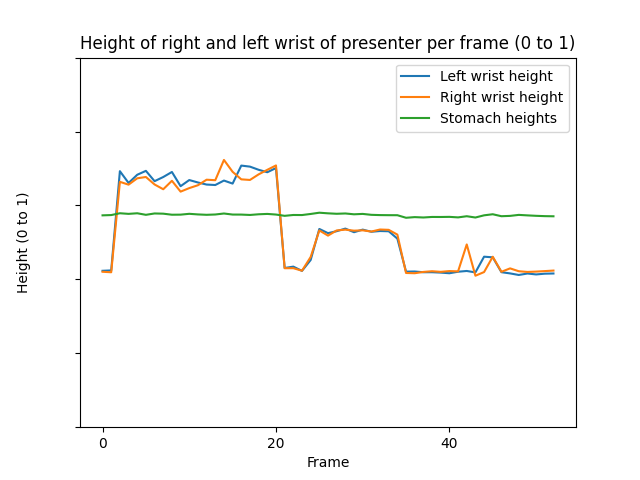
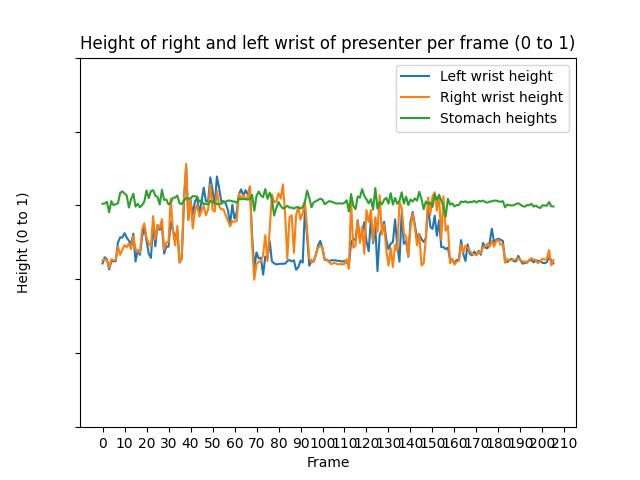
hand gesture sections
- determined that sections are the way to go

Changed region(s): [[0.1562, 0.3125, 0.875, 0.5938], [0.1875, 0.9062, 0.9062, 0.9375]]

diff --git a/Templates/upload.html b/Templates/upload.html
@@ -175,7 +175,7 @@
         <div class="loginWindow">
             <h2 style="color:black;">Submit your presentation</h2>
             <form method="post" enctype=multipart/form-data>
-            <label for="fileInput">Script file:</label><input type=file name="scriptFile" class="inputField" id="fileInput"><br>
+            <!--<label for="fileInput">Script file:</label><input type=file name="scriptFile" class="inputField" id="fileInput"><br>-->
             <label for="scriptFileInput">Presentation recording file:</label><input type=file name=file class="inputField" accept="video/*" id="scriptFileInput"><br>
             <input type="submit" value="Submit" id="submitFile" onclick="sayHi()">
             <input type="submit" value="Cancel" id="cancel">

diff --git a/mathyStuff.py b/mathyStuff.py
@@ -1,25 +1,106 @@
 import numpy as np
 import matplotlib.pyplot as plt
+from shapely.geometry import LineString
+import pandas as pd
 
-positions = [-0.5794419646263123, -0.5807831883430481, -0.3361303210258484, -0.34377115964889526, -0.32656973600387573, -0.32301369309425354, -0.34325772523880005, -0.35617777705192566, -0.3333170711994171, -0.3626295328140259, -0.3530879616737366, -0.34531113505363464, -0.33035558462142944, -0.3317309021949768, -0.27691954374313354, -0.3090311586856842, -0.3294033408164978, -0.3310296833515167, -0.315949022769928, -0.3036351799964905, -0.2918146848678589, -0.5698598027229309, -0.5697675943374634, -0.5766220092773438, -0.5394902229309082, -0.4675649404525757, -0.48163673281669617, -0.4676275849342346, -0.46552518010139465, -0.46826422214508057, -0.46733084321022034, -0.4706277549266815, -0.46514832973480225, -0.46602076292037964, -0.4789222776889801, -0.5827349424362183, -0.5833925008773804, -0.5799033045768738, -0.5779815912246704, -0.5796786546707153, -0.5776031017303467, -0.5783829689025879, -0.5055620670318604, -0.5901376605033875, -0.5802419781684875, -0.5387815237045288, -0.5795063376426697, -0.5702962875366211, -0.5780039429664612, -0.5799062848091125, -0.5789716243743896, -0.5776592493057251, -0.5762386918067932]
+def section_y(y_coord,sectionNo):
+    for n in range(sectionNo):
+        if n == 0:
+            if y_coord >= 0 and y_coord <= (720/sectionNo)*(n+1):
+                return 1
+        else:
+            if y_coord > (720/sectionNo)*n and y_coord <= (720/sectionNo)*(n+1):
+                return n+1
+
+#WIN_20250730_23_12_07_Pro
+#positionsRaw = [-0.5325853824615479, -0.5301042199134827, -0.5247068405151367, -0.5205500721931458, -0.5244581699371338, -0.40609338879585266, -0.5285013914108276, -0.3726186454296112, -0.5205764770507812, -0.26383814215660095, -0.27307769656181335, -0.2659529745578766, -0.487113356590271, -0.4983258545398712, -0.5466229319572449, -0.5200075507164001, -0.5250523090362549, -0.28351128101348877, -0.1844327300786972, -0.21245239675045013, -0.3286295533180237, -0.4397791624069214, -0.4914955496788025, -0.5162328481674194, -0.5215202569961548, -0.5135793685913086, -0.523714005947113, -0.5248959064483643, -0.5273776054382324, -0.5142015814781189, -0.5054910778999329]
+
+positionsRaw = [-0.5487394332885742, -0.5456001162528992, -0.5480575561523438, -0.5685305595397949, -0.5454643964767456, -0.5481901168823242, -0.5483039617538452, -0.5104462504386902, -0.5337873697280884, -0.5196753740310669, -0.5073473453521729, -0.5130718350410461, -0.5025277137756348, -0.5184731483459473, -0.48305463790893555, -0.5189809203147888, -0.5242972373962402, -0.5273551344871521, -0.46455875039100647, -0.44850823283195496, -0.4868045747280121, -0.5032780170440674, -0.5108714699745178, -0.4288733899593353, -0.4919275939464569, -0.45334142446517944, -0.46164244413375854, -0.43710169196128845, -0.5200451016426086, -0.5001036524772644, -0.4986776113510132, -0.3812040686607361, -0.46808484196662903, -0.5081568360328674, -0.4558117389678955, -0.5544812679290771, -0.5446252822875977, -0.37596291303634644, -0.2875831723213196, -0.4391776919364929, -0.3801746666431427, -0.4622561037540436, -0.41480517387390137, -0.39815378189086914, -0.4299168884754181, -0.41444939374923706, -0.40169447660446167, -0.4267593324184418, -0.4108484387397766, -0.3431186378002167, -0.4120084047317505, -0.41699278354644775, -0.3599002957344055, -0.402701199054718, -0.4104255735874176, -0.4102693200111389, -0.42681777477264404, -0.4409027099609375, -0.4562623202800751, -0.4425475597381592, -0.4442615211009979, -0.44183802604675293, -0.3677114248275757, -0.38218358159065247, -0.3722921907901764, -0.3796590566635132, -0.3823210895061493, -0.34804943203926086, -0.5057900547981262, -0.6008517742156982, -0.5588468909263611, -0.551742434501648, -0.5509993433952332, -0.5340068340301514, -0.48054322600364685, -0.5505767464637756, -0.46372872591018677, -0.3699273467063904, -0.39193302392959595, -0.38868391513824463, -0.3671024739742279, -0.3816691040992737, -0.3432287573814392, -0.4224630892276764, -0.5449060797691345, -0.4312500059604645, -0.4265431761741638, -0.5283615589141846, -0.42606276273727417, -0.403642475605011, -0.43859413266181946, -0.4200725555419922, -0.3889784812927246, -0.46474534273147583, -0.5431596040725708, -0.5545910596847534, -0.5493809580802917, -0.532088041305542, -0.5135778188705444, -0.5098484754562378, -0.5132182836532593, -0.5461300611495972, -0.5478014349937439, -0.5533897280693054, -0.5589211583137512, -0.5558322668075562, -0.5564947724342346, -0.5594906210899353, -0.5581611394882202, -0.5596962571144104, -0.5576977133750916, -0.5454510450363159, -0.5712703466415405, -0.38966619968414307, -0.5144249796867371, -0.5096797347068787, -0.4418351948261261, -0.5013300776481628, -0.45732930302619934, -0.5311780571937561, -0.4124690592288971, -0.4448331296443939, -0.4123997092247009, -0.496725857257843, -0.4323216676712036, -0.4714202582836151, -0.37223386764526367, -0.4784618318080902, -0.45170271396636963, -0.5216473340988159, -0.5625842213630676, -0.5152930617332458, -0.5665940642356873, -0.505734920501709, -0.5242438912391663, -0.39060288667678833, -0.40662696957588196, -0.47505712509155273, -0.4843079745769501, -0.5363353490829468, -0.4594810903072357, -0.4221419394016266, -0.45898640155792236, -0.5079809427261353, -0.4770529568195343, -0.5620664954185486, -0.556859016418457, -0.4858088493347168, -0.3788103461265564, -0.4251663088798523, -0.3760714530944824, -0.3643641173839569, -0.4139161705970764, -0.3706666827201843, -0.4921014904975891, -0.37521129846572876, -0.46824246644973755, -0.45536404848098755, -0.5563980340957642, -0.5444576740264893, -0.5600857138633728, -0.5518373847007751, -0.5496876835823059, -0.5061298608779907, -0.5275072455406189, -0.5087194442749023, -0.5138834714889526, -0.5235146284103394, -0.5304703712463379, -0.5325214862823486, -0.5346775650978088, -0.525321364402771, -0.529176652431488, -0.5124203562736511, -0.5110419988632202, -0.5031708478927612, -0.5118680000305176, -0.49583134055137634, -0.511654794216156, -0.4957394003868103, -0.4929341673851013, -0.5064615607261658, -0.505266547203064, -0.5550753474235535, -0.5451611280441284, -0.5487560033798218, -0.5470869541168213, -0.547314465045929, -0.5453840494155884, -0.5429956912994385, -0.5477694272994995, -0.551960289478302, -0.5512006878852844, -0.5562561750411987, -0.5467765927314758, -0.5428956151008606, -0.5462566614151001, -0.5489434003829956, -0.5561537146568298, -0.5512233972549438, -0.5439226031303406, -0.5464651584625244, -0.5450199842453003, -0.5211634635925293, -0.5620511174201965, -0.547993004322052]
+
+#WIN_20250807_19_07_53_Pro
+#positionsRaw = [-0.6194545030593872, -0.6261144876480103, -0.6144956946372986, -0.6064348816871643, -0.5975335240364075, -0.6059531569480896, -0.6114587783813477, -0.6107118725776672, -0.6071372628211975, -0.6085165739059448, -0.6094580292701721, -0.6111363172531128, -0.6143379807472229, -0.6106725335121155, -0.6004202961921692, -0.5972669124603271, -0.6039623618125916, -0.6017809510231018, -0.6057973504066467, -0.6050704717636108, -0.6037896275520325, -0.5991820096969604, -0.6046565771102905, -0.6007012724876404, -0.6050994992256165, -0.6041679978370667, -0.6034728288650513, -0.6039924025535583, -0.6025302410125732, -0.6009629964828491, -0.596050500869751, -0.598336935043335, -0.5958999395370483, -0.6004021167755127, -0.6030275821685791, -0.6033242344856262, -0.5992010235786438, -0.6027380228042603, -0.6042390465736389, -0.5996551513671875, -0.6001970767974854, -0.6016270518302917, -0.6062532067298889, -0.6110777258872986, -0.6191348433494568]
+
+#WIN_20250730_13_18_25_Pro
+#positionsRaw = [-0.5769371390342712, -0.5740746855735779, -0.5770898461341858, -0.4597893953323364, -0.3182271420955658, -0.3103104829788208, -0.32622867822647095, -0.3242488503456116, -0.31667956709861755, -0.3476053774356842, -0.31001460552215576, -0.3363347351551056, -0.33099883794784546, -0.3194558322429657, -0.355131059885025, -0.36161133646965027, -0.32475364208221436, -0.3281310200691223, -0.3596455752849579, -0.31931939721107483, -0.3468552827835083, -0.34195294976234436, -0.3420727252960205, -0.3433576226234436, -0.3209373950958252, -0.31046122312545776, -0.3129536807537079, -0.3423405885696411, -0.26208269596099854, -0.283790647983551, -0.30067604780197144, -0.314946711063385, -0.32050061225891113, -0.3248846232891083, -0.32607752084732056, -0.3185686767101288, -0.313082218170166, -0.29819127917289734, -0.3124721646308899, -0.2901393175125122, -0.2827919125556946, -0.3584807515144348, -0.5600556135177612, -0.5775519609451294, -0.559845507144928, -0.5619506239891052, -0.5638207793235779, -0.562956690788269, -0.5465201735496521, -0.46155616641044617, -0.46768853068351746, -0.4707203805446625, -0.4835139513015747, -0.49003973603248596, -0.4666587710380554, -0.46244728565216064, -0.4651973843574524, -0.46304750442504883, -0.4646764397621155, -0.4631357789039612, -0.46610090136528015, -0.4652743339538574, -0.4655599892139435, -0.4645654559135437, -0.4643259346485138, -0.4652031362056732, -0.46381792426109314, -0.4677707552909851, -0.4817902445793152, -0.5538103580474854, -0.5733431577682495, -0.5736222863197327, -0.5762903094291687, -0.5738833546638489, -0.5732836127281189, -0.5746466517448425, -0.5737695693969727, -0.5734359622001648, -0.5727670192718506, -0.5753656625747681, -0.5746026635169983, -0.5686521530151367, -0.5693199634552002, -0.5459888577461243, -0.5008711218833923, -0.5323912501335144, -0.5874128341674805, -0.5724669694900513, -0.5735823512077332, -0.5695264339447021, -0.5409075617790222, -0.5539050698280334, -0.5733664631843567, -0.5331226587295532, -0.5600557327270508, -0.5625374913215637, -0.5629031658172607, -0.5614351630210876, -0.5606737732887268, -0.5653530359268188, -0.5638149976730347, -0.5636937022209167, -0.5676081776618958, -0.5682761669158936, -0.5663168430328369]
+
+pandasPositions = pd.Series(positionsRaw)
+
+#pandasPositions = pandasPositions.rolling(window=5).mean()
+
+positions = pandasPositions.tolist()
+
+positions[0],positions[1],positions[2],positions[3],positions[4],positions[5],positions[6],positions[7],positions[8] = positionsRaw[0],positionsRaw[1],positionsRaw[2],positionsRaw[3],positionsRaw[4],positionsRaw[5],positionsRaw[6],positionsRaw[7],positionsRaw[8]
+
+print(positions)
+
+for pos in positions:
+    positions[positions.index(pos)] = section_y((pos+1)*720,9)
+
+print(positions)
+
 time = np.arange(len(positions))
-#positions = np.array([0, 2, 4, 4, 3, 1, 0])
 
 # Calculate the change in position and change in time
 delta_position = np.diff(positions)
 delta_time = np.diff(time)
 
 # Calculate velocity
-velocity = delta_position / delta_time
+velocityRaw = delta_position / delta_time
+pandasVelocity = pd.Series(velocityRaw)
 
-time_velocity = (time[:-1] + time[1:]) / 2
+#velocity_moving_average = pandasVelocity.rolling(window=7).mean()
+#velocity_moving_average = velocity_moving_average.tolist()
+velocity_moving_average=pandasVelocity.tolist()
+
+velocity_moving_average[0],velocity_moving_average[1],velocity_moving_average[2],velocity_moving_average[3],velocity_moving_average[4],velocity_moving_average[5],velocity_moving_average[6],velocity_moving_average[7],velocity_moving_average[8] = velocityRaw[0],velocityRaw[1],velocityRaw[2],velocityRaw[3],velocityRaw[4],velocityRaw[5],velocityRaw[6],velocityRaw[7],velocityRaw[8]
+
+print(f'velocity_moving_average length: {len(velocity_moving_average)}')
+
+time_velocity = ((time[:-1] + time[1:]) / 2)
+
+left_wrist_velocities = np.column_stack((time_velocity,velocity_moving_average))
+left_wrist_velocities = left_wrist_velocities
+print(f'left_wrist_velocities type: {(len(left_wrist_velocities))}')
+first_line_left = LineString(left_wrist_velocities)
+pointfivevelocity = np.column_stack((np.arange(1, len(velocityRaw) -1 ),np.full_like(np.arange(1, len(velocityRaw) -1 ), 0.01, dtype=np.float64)))
+pointfivevelocity = LineString(pointfivevelocity)
+print(first_line_left)
+
+intersection_left = first_line_left.intersection(pointfivevelocity)
+
+left_stomach_intersections = []
+if intersection_left.geom_type == 'MultiPoint':
+    #plt.plot(*LineString(intersection_left.geoms).xy, 'o')
+    left_stomach_intersections = sorted(((LineString(intersection_left.geoms).xy)[0]).tolist())
+elif intersection_left.geom_type == 'Point':
+    #plt.plot(*intersection_left.xy, 'o')
+    left_stomach_intersections = [intersection_left.xy[0].tolist()[0]]
+
+left_stomach_intersections = sorted(left_stomach_intersections)
+
+#for i in left_stomach_intersections:
+#    left_stomach_intersections[left_stomach_intersections.index(i)] = i*10/30.092253624249526
+
+print(f'left_stomach_intersections: {left_stomach_intersections}')
+
+peaks = []
+
+print((left_stomach_intersections))
+for x in range(0,len(left_stomach_intersections),2):
+    print('hi')
+    peaks.append((left_stomach_intersections[x]+left_stomach_intersections[x+1])/2)
+
+print(f'peaks: {peaks}')
 
 plt.figure(figsize=(8, 5))
-plt.yticks(np.arange(-0.2, 0.2, 0.05))
-plt.plot(positions)
-plt.plot(time_velocity, velocity, marker='o', linestyle='-')
+print(len(positionsRaw))
+print(len(time_velocity))   
+plt.plot(positionsRaw,marker='x', linestyle='-',label='positionsRaw')
+plt.plot(positions,marker='o', linestyle='--',label='positions')
+plt.plot(time_velocity,velocity_moving_average,marker='*', linestyle='--')
 plt.title('Velocity-Time Graph')
 plt.xlabel('Time (s)')
 plt.ylabel('Velocity (m/s)')
+plt.legend()
 plt.grid(True)
 plt.show()

diff --git a/app.py b/app.py
@@ -110,7 +110,7 @@ def upload():
         wristSectionNo = 5
         addLeftIntersectionAtBeginning = False
         addRightIntersectionAtBeginning = False
-        frame_interval = 20
+        frame_interval = 10
         actual_left_wrist_coords = []
         actual_right_wrist_coords = []
 
@@ -129,6 +129,13 @@ def upload():
                 break
             try:
                 if frame_number % frame_interval == 0:
+                    height, width = frame.shape[:2]
+                    part_height = height // 9
+
+                    # Draw 7 horizontal lines to split into 8 parts
+                    for i in range(1, 9):
+                        y = i * part_height
+                        cv2.line(frame, (0, y), (width, y), (0, 255, 0), 2)
                     result = model(frame, show=True, conf=0.3, save=True)[0]
                     print(frame_number)
                     width = result.orig_shape[1]
@@ -338,7 +345,7 @@ def upload():
 
         pdf.set_font(family='Arial',style='B',size=title)
 
-        pdf.multi_cell(txt='Your presentation',w=0,h=50)
+        pdf.multi_cell(txt=f'Your presentation (total frames: {totalFrames}, fps:{fps})',w=0,h=50)
 
         if references[0][0] != None:
             references[0][0] = references[0][0].lower()
